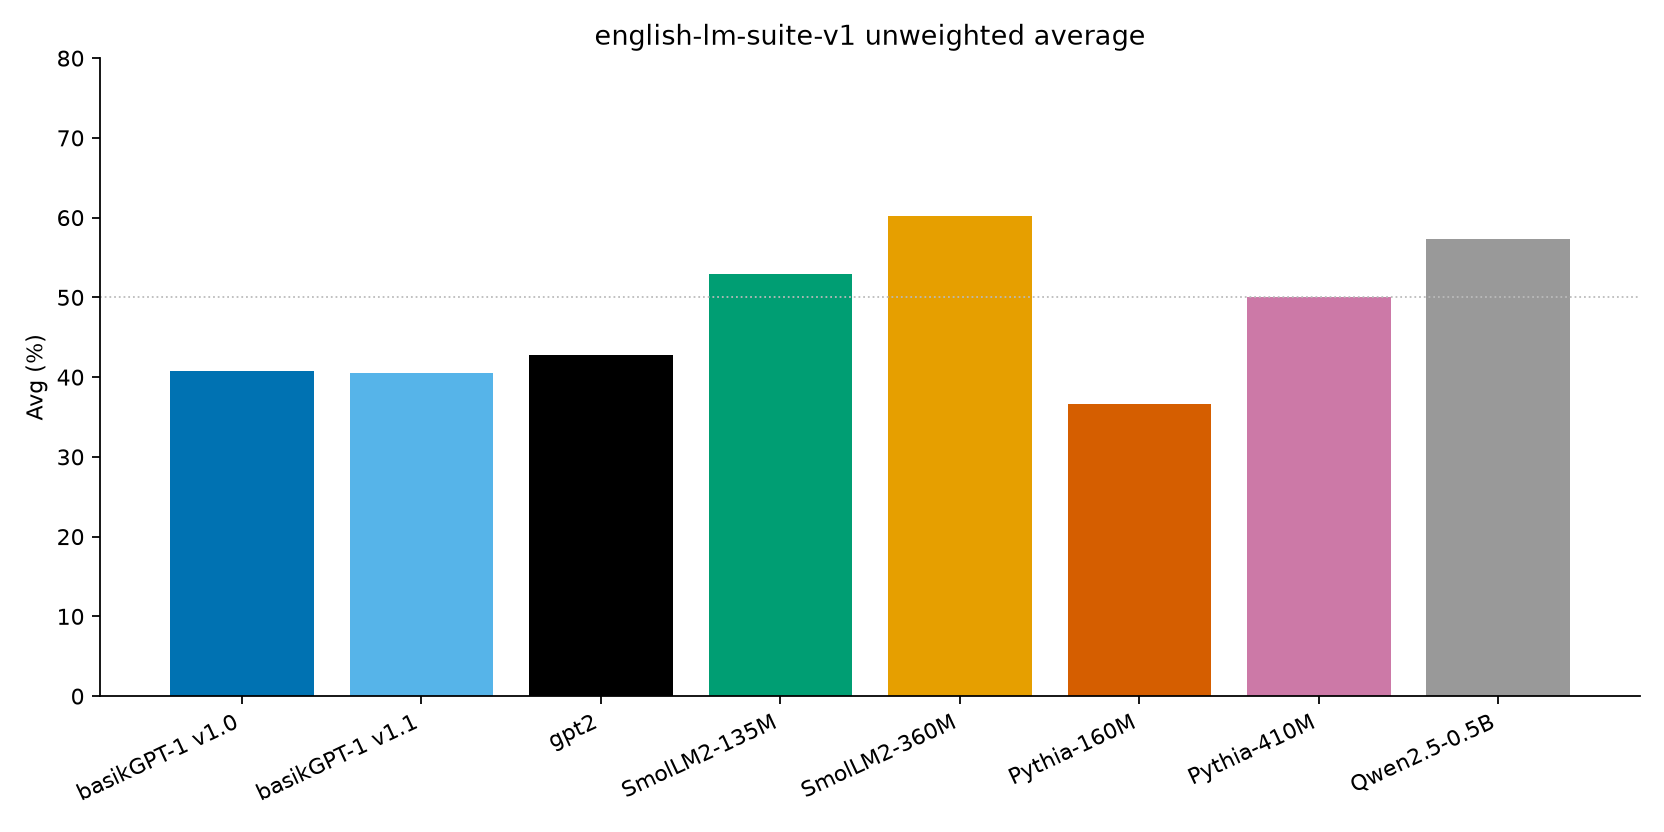
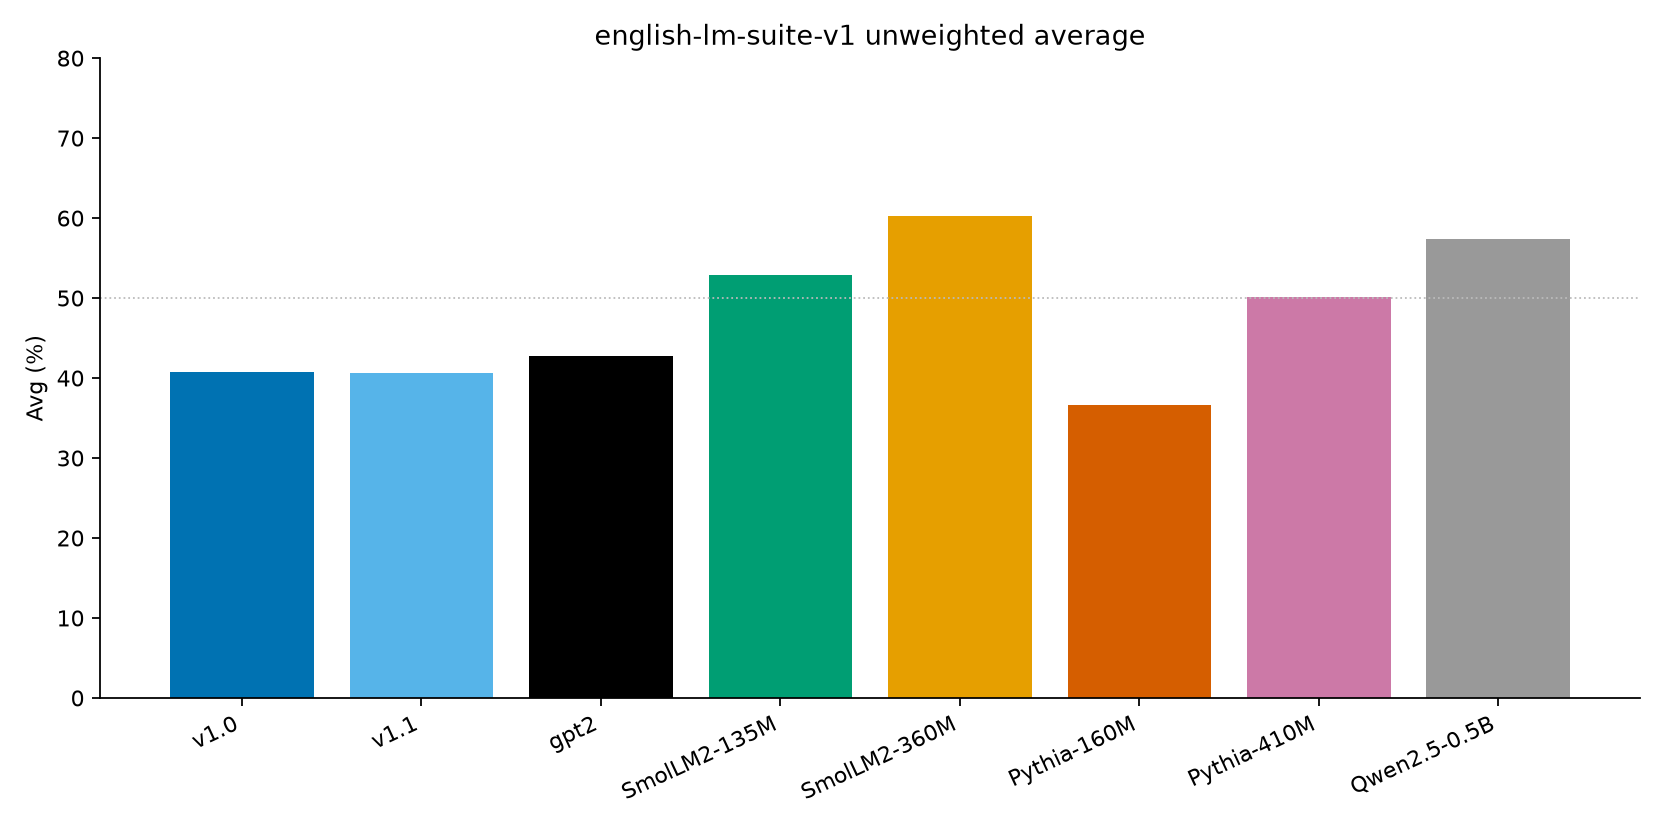
docs: drop disclaimer copy and label suite rows v1.0/v1.1
Lead with the base-model fact and the version names readers already use, instead of 'not a chatbot' hedges or 2.5B/5B table ids.

diff --git a/scripts/plot_lm_suite_compare.py b/scripts/plot_lm_suite_compare.py
@@ -25,8 +25,8 @@ MODEL_ORDER = (
 )
 
 DISPLAY_NAMES = {
-    "basikgpt-2p5b": "basikGPT-1 v1.0",
-    "basikgpt-5b": "basikGPT-1 v1.1",
+    "basikgpt-2p5b": "v1.0",
+    "basikgpt-5b": "v1.1",
     "gpt2": "gpt2",
     "SmolLM2-135M": "SmolLM2-135M",
     "SmolLM2-360M": "SmolLM2-360M",
@@ -166,8 +166,8 @@ def plot_hellaswag_vs_size(models: dict[str, dict], output_path: Path) -> None:
     colors = [row[3] for row in rows]
     ax.scatter(xs, ys, c=colors, s=48, zorder=3)
     for x, y, label, _color in rows:
-        dy = 1.4 if "v1.1" in label else 1.2
-        if label == "basikGPT-1 v1.0":
+        dy = 1.4 if label == "v1.1" else 1.2
+        if label == "v1.0":
             dy = -2.2
         ax.annotate(label, (x, y), textcoords="offset points", xytext=(6, dy), fontsize=8)
 

diff --git a/tests/evaluation/test_suite_tasks.py b/tests/evaluation/test_suite_tasks.py
@@ -85,8 +85,10 @@ def test_write_report_contains_protocol_and_scores(tmp_path: Path) -> None:
     assert "Qwen/Qwen2.5-0.5B" in text
     assert "apple/OpenELM" not in text
     assert "OpenELM" in text  # listed under Not included
-    assert "basikgpt-2p5b" in text
     assert "basikgpt-5b" in text
+    assert "| v1.0 |" in text
+    assert "- v1.0 —" in text
+    assert "- v1.1 —" in text
     assert "29.33%" in text
     assert "| Avg |" in text
     assert "45.07%" in text

diff --git a/docs/whitepaper.md b/docs/whitepaper.md
@@ -47,7 +47,7 @@ basikGPT-1 is a **124,439,808**-parameter GPT-2 Small decoder-only Transformer t
 
 Weights are on Hugging Face Hub as `GPT2LMHeadModel` exports: [`project-iconik/basikGPT-1-v1.0`](https://huggingface.co/project-iconik/basikGPT-1-v1.0) and [`project-iconik/basikGPT-1-v1.1`](https://huggingface.co/project-iconik/basikGPT-1-v1.1).
 
-The model is a pretrained **base**, not an instruction-tuned chatbot. The comparison table is a shared-protocol baseline, not a compute-matched claim that GPT-2 Small was beaten.
+The model is a pretrained **base**. The comparison table is a shared-protocol baseline.
 
 ---
 
@@ -61,19 +61,19 @@ basikGPT-1 was trained from scratch with three constraints:
 - **Chinchilla-near unique data for the first stage.** Hoffmann et al. suggest on the order of 20 tokens per parameter. v1.0 used 2.50B tokens for 124.4M unique parameters, seen once over FineWeb-Edu (`sample-10BT`).
 - **Single 24–32 GB GPU.** Sequence length 1024, micro-batch 8, gradient accumulation 8, BF16, and SDPA keep measured allocation near 9.5 GiB.
 
-The second stage is a documented continuation, not a second from-scratch run. An earlier mix sketch that included SmolLM `python-edu` was **not** executed; v1.1 used FineWeb + OpenWebMath only.
+The second stage is a documented continuation. An earlier mix sketch that included SmolLM `python-edu` was **not** executed; v1.1 used FineWeb + OpenWebMath only.
 
 ---
 
 ## 3. Related work
 
-The backbone follows GPT-2 [Radford et al., 2019]: Pre-Norm residual blocks, learned absolute positional embeddings, causal multi-head self-attention, and a tied embedding / LM head. The training stack is modernized (AdamW, cosine decay, BF16, PyTorch SDPA) rather than a TensorFlow 1.x / WebText replica. Fidelity tiers are spelled out in [`docs/pretraining_recipe.md`](pretraining_recipe.md).
+The backbone follows GPT-2 [Radford et al., 2019]: Pre-Norm residual blocks, learned absolute positional embeddings, causal multi-head self-attention, and a tied embedding / LM head. The training stack is modernized (AdamW, cosine decay, BF16, PyTorch SDPA). Fidelity tiers are spelled out in [`docs/pretraining_recipe.md`](pretraining_recipe.md).
 
 The first-stage token budget follows the Chinchilla compute-optimal ratio of roughly 20 tokens per parameter [Hoffmann et al., 2022]. The executed v1.0 ratio is 20.09 tokens per parameter for one pass over 2.5B FineWeb-Edu tokens.
 
 Pretraining data is FineWeb-Edu [Penedo et al. / HuggingFaceFW] for v1.0, then FineWeb and OpenWebMath [Paster et al.] for the continuation. Details and licenses are in [§6](#6-data) and [§11](#11-intended-use-limitations-and-licenses).
 
-On the evaluation side, official GPT-2 Small is the same-architecture reference. Pythia [Biderman et al., 2023], SmolLM2, and Qwen2.5-0.5B are included under one in-repo protocol (`english-lm-suite-v1`) so size and data language can be compared without mixing published paper numbers. Token counts and architectures are **not** matched. This is a baseline under a shared scoring rule, not a fair compute bake-off.
+On the evaluation side, official GPT-2 Small is the same-architecture reference. Pythia [Biderman et al., 2023], SmolLM2, and Qwen2.5-0.5B are included under one in-repo protocol (`english-lm-suite-v1`) so size and data language can be compared without mixing published paper numbers. Token counts and architectures are **not** matched. This is a baseline under a shared scoring rule.
 
 ---
 
@@ -140,7 +140,7 @@ flowchart TB
   add2 --> xout
 ```
 
-Attention shapes. Scale `1/sqrt(64)`. Causal multi-head, not GQA.
+Attention shapes. Scale `1/sqrt(64)`. Causal multi-head.
 
 ```mermaid
 flowchart LR
@@ -158,7 +158,7 @@ Tensor symbols `B`, `T`, `C`, `H`, `D`, `V` are defined in [`docs/tensor_convent
 
 ## 5. Tokenizer
 
-GPT-2 byte-level BPE via `tiktoken.get_encoding("gpt2")`. Vocabulary size 50,257. End-of-text id **50,256**. No custom tokenizer.
+GPT-2 byte-level BPE via `tiktoken.get_encoding("gpt2")`. Vocabulary size 50,257. End-of-text id **50,256**.
 
 Training ingest uses `encode_ordinary()` on document text (so a literal `<|endoftext|>` in the page is ordinary bytes) and appends one EOT as the document boundary. Manifests record this as `special_token_policy: encode_ordinary + appended EOT`. The training-machine tiktoken version was `0.14.0`.
 
@@ -214,7 +214,7 @@ flowchart LR
   v10 --> v11 --> life
 ```
 
-The 0.25B math slice exists so equations are not unseen. It is not enough data to claim a math model, and GSM8K is not in the evaluation protocol.
+The 0.25B math slice exists so equations are not unseen. GSM8K is not in the evaluation protocol.
 
 ---
 
@@ -271,7 +271,7 @@ Resumed from `runs/main_2p5b/step-00038147.pt` (weights and optimizer). `schedul
 | Other optimizer / batch fields | same as v1.0 |
 | `seed` | 1337 |
 
-**One FineWeb-Edu epoch, then a different mix.** The continuation leaves the Edu distribution on purpose. FineWeb-Edu validation CE rising during v1.1 is expected, not a silent regression.
+**One FineWeb-Edu epoch, then a different mix.** The continuation leaves the Edu distribution on purpose. FineWeb-Edu validation CE rising during v1.1 is expected.
 
 ---
 
@@ -288,7 +288,7 @@ Resumed from `runs/main_2p5b/step-00038147.pt` (weights and optimizer). `schedul
 | Training-only tok/s | 85,076 | ~84,700 |
 | Peak CUDA allocated (MiB) | 9,523.61 | 9,528.69 |
 
-The v1.1 `summary.json` field `training_only_tokens_per_sec` is **169,416**. That divides **lifetime** 5.0B tokens by this-stage train time and is not a throughput measurement. Stage tokens 2,500,001,792 / `train_elapsed_seconds` 29,513.24 s ≈ **84,708** tok/s, in line with v1.0.
+The v1.1 `summary.json` field `training_only_tokens_per_sec` is **169,416**. That divides **lifetime** 5.0B tokens by this-stage train time. Stage tokens 2,500,001,792 / `train_elapsed_seconds` 29,513.24 s ≈ **84,708** tok/s, in line with v1.0.
 
 Peak allocation stayed near 9.5 GiB, so a 24 GB card has headroom at this batch shape. Hub ingest and shard packing added wall-clock before step 1 and are not in the GPU-hour totals.
 
@@ -362,8 +362,8 @@ Checkpoints: v1.0 `runs/main_2p5b/step-00038147.pt`; v1.1 `runs/cont_5b_mix/step
 
 | Model | Params | Corpus | HS acc_norm | LAMBADA | PIQA | WG | ARC-E | Avg |
 | --- | ---: | --- | ---: | ---: | ---: | ---: | ---: | ---: |
-| **basikGPT-1 v1.0** | 124M | FineWeb-Edu 2.5B | **29.40%** | **19.58%** | **61.37%** | **50.51%** | **43.01%** | **40.77%** |
-| **basikGPT-1 v1.1** | 124M | Edu 2.5B + FineWeb 2.25B + OpenWebMath 0.25B | **28.75%** | **23.05%** | **61.75%** | **50.83%** | **38.51%** | **40.58%** |
+| **v1.0** | 124M | FineWeb-Edu 2.5B | **29.40%** | **19.58%** | **61.37%** | **50.51%** | **43.01%** | **40.77%** |
+| **v1.1** | 124M | Edu 2.5B + FineWeb 2.25B + OpenWebMath 0.25B | **28.75%** | **23.05%** | **61.75%** | **50.83%** | **38.51%** | **40.58%** |
 | `openai-community/gpt2` | 124M | WebText | 30.37% | 30.93% | 62.57% | 51.62% | 38.13% | 42.72% |
 | SmolLM2-135M | 135M | SmolLM2 mix | 42.67% | 42.97% | 67.57% | 51.93% | 59.43% | 52.91% |
 | SmolLM2-360M | 362M | SmolLM2 mix | 55.23% | 53.25% | 71.71% | 54.14% | 66.75% | 60.22% |
@@ -385,9 +385,7 @@ WG is acc_raw; other columns are the suite primary metric. Avg is the unweighted
 - **vs official GPT-2 Small.** Same decoder, same tiktoken, same completion NLL. v1.0 is the only checkpoint that beats gpt2 on a primary metric: ARC-Easy **+4.88 pp**. LAMBADA stays well below gpt2 (v1.0 −11.35 pp, v1.1 −7.88 pp). HellaSwag is slightly below (v1.0 −0.97 pp, v1.1 −1.62 pp).
 - **HellaSwag ~29%.** Above chance 25%, in the same band as gpt2 and Pythia-160M, and far below SmolLM2-135M at 42.67%. Nearby parameter counts do not imply nearby data budgets.
 - **WinoGrande.** All eight models sit in 49.5–55.6%. At n=1,267 the standard error of a 50% rate is about 1.4 pp, so 50.51% and 50.83% are not distinguishable from chance.
-- **Size ladder.** SmolLM2-360M and Qwen2.5-0.5B sit clearly above the 124M GPT-2 class. That is the expected mix-and-scale gap, not a surprise.
-
-**What these numbers do not claim.** The hyperparameter search is not finished. The table is not a token-matched or compute-matched bake-off. “We beat GPT-2” is false as a headline. 2.5B and 5B are **training tokens**, not parameters. 0.25B OpenWebMath does not imply GSM8K (not in the protocol). KoBEST, MMLU, HumanEval, and WikiText PPL are not in the suite.
+- **Size ladder.** SmolLM2-360M and Qwen2.5-0.5B sit clearly above the 124M GPT-2 class. That is the expected mix-and-scale gap.
 
 Published scores: [`benchmarks/REPORT.md`](../benchmarks/REPORT.md) and [`benchmarks/summary.json`](../benchmarks/summary.json). Plots regenerate with `python scripts/plot_lm_suite_compare.py`.
 
@@ -397,7 +395,7 @@ Published scores: [`benchmarks/REPORT.md`](../benchmarks/REPORT.md) and [`benchm
 
 ### Intended use
 
-basikGPT-1 is a pretrained English **base** checkpoint for research, education, further pretraining, and fine-tuning. It is not a chatbot and was not instruction-tuned. It is not safe for open-ended production chat.
+basikGPT-1 is a pretrained English **base** model for research, education, further pretraining, and fine-tuning.
 
 Use **v1.0** for the FineWeb-Edu checkpoint (stronger ARC-Easy). Use **v1.1** for the 5B continuation (higher LAMBADA, lower ARC-Easy). The snippet below loads v1.1.
 
@@ -481,7 +479,7 @@ python scripts/evaluate_lm_suite.py --protocol-all --device cuda
 python scripts/plot_lm_suite_compare.py
 ```
 
-Large shards under `data/` and `.pt` checkpoints under `runs/` are gitignored. Production 2.5B ingest needs disk space and a Hub stream; it is not a laptop default.
+Large shards under `data/` and `.pt` checkpoints under `runs/` are gitignored. Production 2.5B ingest needs disk space and a Hub stream.
 
 Recorded git SHAs (both dirty):
 
@@ -498,7 +496,7 @@ A dirty tree means the SHA is provenance, not a bitwise recipe lock.
 
 basikGPT-1 is a complete GPT-2 Small pretraining run: a verified 124,439,808-parameter decoder, GPT-2 BPE, a documented FineWeb-Edu 2.5B stage (20.09 tokens/parameter, 8.18 GPU hours, full-val PPL 25.92), a documented FineWeb+OpenWebMath continuation to 5B, and an in-repo zero-shot English suite.
 
-v1.0 sits next to official gpt2 on HellaSwag and above it on ARC-Easy; LAMBADA remains the largest gap. v1.1 closes part of that LAMBADA gap and gives back the ARC-Easy lead. Same-size public decoders in this protocol are close; 135M–0.5B models trained on larger modern mixes sit higher. That is the expected size-and-data ladder, not a surprise.
+v1.0 sits next to official gpt2 on HellaSwag and above it on ARC-Easy; LAMBADA remains the largest gap. v1.1 closes part of that LAMBADA gap and gives back the ARC-Easy lead. Same-size public decoders in this protocol are close; 135M–0.5B models trained on larger modern mixes sit higher. That is the expected size-and-data ladder.
 
 ---
 

diff --git a/README.ja.md b/README.ja.md
@@ -2,7 +2,7 @@
 
 [English](README.md) · **日本語** · [한국어](README.ko.md)
 
-basikGPT は **事前学習済み GPT-2 Small decoder-only Transformer**（124,439,808 ユニークパラメータ）と、それを学習した PyTorch コードである。**base** チェックポイントであり、instruction-tuned なチャットボットではない。
+basikGPT は **事前学習済み GPT-2 Small decoder-only Transformer**（124,439,808 ユニークパラメータ）と、それを学習した PyTorch コードである。**base** モデルである。
 
 - 重み: [`project-iconik/basikGPT-1-v1.0`](https://huggingface.co/project-iconik/basikGPT-1-v1.0)（2.5B トークン）、[`project-iconik/basikGPT-1-v1.1`](https://huggingface.co/project-iconik/basikGPT-1-v1.1)（5B トークン）
 - ホワイトペーパー: [`docs/whitepaper.md`](docs/whitepaper.md)（[JA](docs/whitepaper.ja.md)、[KO](docs/whitepaper.ko.md)）
@@ -48,8 +48,8 @@ python scripts/generate.py --checkpoint runs/main_2p5b/step-00038147.pt --prompt
 
 | Model | size | HS | LAMBADA | PIQA | WG | ARC-E | Avg |
 | --- | ---: | ---: | ---: | ---: | ---: | ---: | ---: |
-| **basikGPT-1 v1.0** | 124M | 29.40 | 19.58 | 61.37 | 50.51 | **43.01** | 40.77 |
-| **basikGPT-1 v1.1** | 124M | 28.75 | 23.05 | 61.75 | 50.83 | 38.51 | 40.58 |
+| **v1.0** | 124M | 29.40 | 19.58 | 61.37 | 50.51 | **43.01** | 40.77 |
+| **v1.1** | 124M | 28.75 | 23.05 | 61.75 | 50.83 | 38.51 | 40.58 |
 | openai-community/gpt2 | 124M | 30.37 | 30.93 | 62.57 | 51.62 | 38.13 | 42.72 |
 | HuggingFaceTB/SmolLM2-135M | 135M | 42.67 | 42.97 | 67.57 | 51.93 | 59.43 | 52.91 |
 | EleutherAI/pythia-160m | 162M | 29.26 | 11.57 | 58.32 | 49.49 | 34.22 | 36.57 |
@@ -110,7 +110,7 @@ flowchart TB
 
 ## Tokenizer
 
-GPT-2 byte-level BPE（`tiktoken.get_encoding("gpt2")`）。語彙 50,257。End-of-text id 50,256。独自トークナイザはない。学習取り込みは `encode_ordinary()` のあと文書ごとに EOT を 1 個付与する。Hub 出力は公式 GPT-2 トークナイザファイルを同梱する。詳細: [ホワイトペーパー §5](docs/whitepaper.ja.md#5-トークナイザ)。
+GPT-2 byte-level BPE（`tiktoken.get_encoding("gpt2")`）。語彙 50,257。End-of-text id 50,256。学習取り込みは `encode_ordinary()` のあと文書ごとに EOT を 1 個付与する。Hub 出力は公式 GPT-2 トークナイザファイルを同梱する。詳細: [ホワイトペーパー §5](docs/whitepaper.ja.md#5-トークナイザ)。
 
 ## Data
 
@@ -131,7 +131,7 @@ flowchart LR
 
 ### A. 公開重みを使う（既定）
 
-[Quick start](#quick-start) を見よ。パック済みコーパスは不要。推論に 24 GB GPU は要らない。
+[Quick start](#quick-start) を見よ。
 
 ### B. FineWeb-Edu 2.5B を再学習する
 
@@ -155,13 +155,13 @@ python scripts/train.py \
   --output-dir runs/main_2p5b
 ```
 
-設定 [`configs/gpt2_small_fineweb_edu_single_gpu.json`](configs/gpt2_small_fineweb_edu_single_gpu.json) は凍結レシピを記録する（provisional、最適主張ではない）。本番のピーク CUDA allocated は **9,523.61 MiB**。
+設定 [`configs/gpt2_small_fineweb_edu_single_gpu.json`](configs/gpt2_small_fineweb_edu_single_gpu.json) は凍結レシピを記録する（provisional）。本番のピーク CUDA allocated は **9,523.61 MiB**。
 
 各 `train.py` 起動は `runs/<name>/` に書く。公開された手法と指標は [ホワイトペーパー](docs/whitepaper.ja.md) にある。ステップログ（`metrics.jsonl`）とシャードマニフェスト（`dataset.json`）は gitignore される。
 
 ### C. Tiny CPU スモーク（実験のみ）
 
-本番学習セットではない。先にスモーク用シャードが必要。
+先にスモーク用シャードが必要。
 
 ```bash
 python scripts/prepare_fineweb_edu.py --output data/fineweb-edu-smoke

diff --git a/README.ko.md b/README.ko.md
@@ -2,7 +2,7 @@
 
 [English](README.md) · [日本語](README.ja.md) · **한국어**
 
-basikGPT는 **사전학습된 GPT-2 Small decoder-only Transformer**(124,439,808 고유 파라미터)와 그것을 학습한 PyTorch 코드다. **base** 체크포인트이며 instruction-tuned 챗봇이 아니다.
+basikGPT는 **사전학습된 GPT-2 Small decoder-only Transformer**(124,439,808 고유 파라미터)와 그것을 학습한 PyTorch 코드다. **base** 모델이다.
 
 - 가중치: [`project-iconik/basikGPT-1-v1.0`](https://huggingface.co/project-iconik/basikGPT-1-v1.0) (2.5B 토큰), [`project-iconik/basikGPT-1-v1.1`](https://huggingface.co/project-iconik/basikGPT-1-v1.1) (5B 토큰)
 - 백서: [`docs/whitepaper.md`](docs/whitepaper.md) ([JA](docs/whitepaper.ja.md), [KO](docs/whitepaper.ko.md))
@@ -48,8 +48,8 @@ python scripts/generate.py --checkpoint runs/main_2p5b/step-00038147.pt --prompt
 
 | Model | size | HS | LAMBADA | PIQA | WG | ARC-E | Avg |
 | --- | ---: | ---: | ---: | ---: | ---: | ---: | ---: |
-| **basikGPT-1 v1.0** | 124M | 29.40 | 19.58 | 61.37 | 50.51 | **43.01** | 40.77 |
-| **basikGPT-1 v1.1** | 124M | 28.75 | 23.05 | 61.75 | 50.83 | 38.51 | 40.58 |
+| **v1.0** | 124M | 29.40 | 19.58 | 61.37 | 50.51 | **43.01** | 40.77 |
+| **v1.1** | 124M | 28.75 | 23.05 | 61.75 | 50.83 | 38.51 | 40.58 |
 | openai-community/gpt2 | 124M | 30.37 | 30.93 | 62.57 | 51.62 | 38.13 | 42.72 |
 | HuggingFaceTB/SmolLM2-135M | 135M | 42.67 | 42.97 | 67.57 | 51.93 | 59.43 | 52.91 |
 | EleutherAI/pythia-160m | 162M | 29.26 | 11.57 | 58.32 | 49.49 | 34.22 | 36.57 |
@@ -110,7 +110,7 @@ flowchart TB
 
 ## Tokenizer
 
-GPT-2 byte-level BPE(`tiktoken.get_encoding("gpt2")`). 어휘 50,257. End-of-text id 50,256. 커스텀 토크나이저는 없다. 학습 수집은 `encode_ordinary()` 후 문서마다 EOT를 하나 붙인다. Hub 내보내기는 공식 GPT-2 토크나이저 파일을 포함한다. 상세: [백서 §5](docs/whitepaper.ko.md#5-토크나이저).
+GPT-2 byte-level BPE(`tiktoken.get_encoding("gpt2")`). 어휘 50,257. End-of-text id 50,256. 학습 수집은 `encode_ordinary()` 후 문서마다 EOT를 하나 붙인다. Hub 내보내기는 공식 GPT-2 토크나이저 파일을 포함한다. 상세: [백서 §5](docs/whitepaper.ko.md#5-토크나이저).
 
 ## Data
 
@@ -131,7 +131,7 @@ flowchart LR
 
 ### A. 공개 가중치 사용 (기본)
 
-[Quick start](#quick-start)를 본다. 팩된 코퍼스는 필요 없다. 추론에 24 GB GPU는 필요 없다.
+[Quick start](#quick-start)를 본다.
 
 ### B. FineWeb-Edu 2.5B 다시 학습
 
@@ -155,13 +155,13 @@ python scripts/train.py \
   --output-dir runs/main_2p5b
 ```
 
-설정 [`configs/gpt2_small_fineweb_edu_single_gpu.json`](configs/gpt2_small_fineweb_edu_single_gpu.json)은 동결 레시피를 기록한다(provisional, 최적 주장 아님). 프로덕션 피크 CUDA allocated는 **9,523.61 MiB**.
+설정 [`configs/gpt2_small_fineweb_edu_single_gpu.json`](configs/gpt2_small_fineweb_edu_single_gpu.json)은 동결 레시피를 기록한다(provisional). 프로덕션 피크 CUDA allocated는 **9,523.61 MiB**.
 
 각 `train.py` 실행은 `runs/<name>/`에 쓴다. 공개된 방법과 지표는 [백서](docs/whitepaper.ko.md)에 있다. 스텝 로그(`metrics.jsonl`)와 샤드 매니페스트(`dataset.json`)는 gitignore된다.
 
 ### C. Tiny CPU 스모크 (실험만)
 
-프로덕션 학습셋이 아니다. 먼저 스모크 샤드 디렉터리가 필요하다.
+먼저 스모크 샤드 디렉터리가 필요하다.
 
 ```bash
 python scripts/prepare_fineweb_edu.py --output data/fineweb-edu-smoke

diff --git a/README.md b/README.md
@@ -2,7 +2,7 @@
 
 **English** · [日本語](README.ja.md) · [한국어](README.ko.md)
 
-basikGPT is a **pretrained GPT-2 Small decoder-only Transformer** (124,439,808 unique parameters) plus the PyTorch code that trained it. It is a **base** checkpoint, not an instruction-tuned chatbot.
+basikGPT is a **pretrained GPT-2 Small decoder-only Transformer** (124,439,808 unique parameters) plus the PyTorch code that trained it. It is a **base** model.
 
 - Weights: [`project-iconik/basikGPT-1-v1.0`](https://huggingface.co/project-iconik/basikGPT-1-v1.0) (2.5B tokens), [`project-iconik/basikGPT-1-v1.1`](https://huggingface.co/project-iconik/basikGPT-1-v1.1) (5B tokens)
 - Whitepaper: [`docs/whitepaper.md`](docs/whitepaper.md) ([JA](docs/whitepaper.ja.md), [KO](docs/whitepaper.ko.md))
@@ -48,8 +48,8 @@ Zero-shot English LM suite (`english-lm-suite-v1`): same splits, prompts, and sc
 
 | Model | size | HS | LAMBADA | PIQA | WG | ARC-E | Avg |
 | --- | ---: | ---: | ---: | ---: | ---: | ---: | ---: |
-| **basikGPT-1 v1.0** | 124M | 29.40 | 19.58 | 61.37 | 50.51 | **43.01** | 40.77 |
-| **basikGPT-1 v1.1** | 124M | 28.75 | 23.05 | 61.75 | 50.83 | 38.51 | 40.58 |
+| **v1.0** | 124M | 29.40 | 19.58 | 61.37 | 50.51 | **43.01** | 40.77 |
+| **v1.1** | 124M | 28.75 | 23.05 | 61.75 | 50.83 | 38.51 | 40.58 |
 | openai-community/gpt2 | 124M | 30.37 | 30.93 | 62.57 | 51.62 | 38.13 | 42.72 |
 | HuggingFaceTB/SmolLM2-135M | 135M | 42.67 | 42.97 | 67.57 | 51.93 | 59.43 | 52.91 |
 | EleutherAI/pythia-160m | 162M | 29.26 | 11.57 | 58.32 | 49.49 | 34.22 | 36.57 |
@@ -110,7 +110,7 @@ flowchart TB
 
 ## Tokenizer
 
-GPT-2 byte-level BPE via `tiktoken.get_encoding("gpt2")`. Vocabulary 50,257. End-of-text id 50,256. No custom tokenizer. Training ingest uses `encode_ordinary()` and appends one EOT per document. Hub exports ship the official GPT-2 tokenizer files. Details: [whitepaper §5](docs/whitepaper.md#5-tokenizer).
+GPT-2 byte-level BPE via `tiktoken.get_encoding("gpt2")`. Vocabulary 50,257. End-of-text id 50,256. Training ingest uses `encode_ordinary()` and appends one EOT per document. Hub exports ship the official GPT-2 tokenizer files. Details: [whitepaper §5](docs/whitepaper.md#5-tokenizer).
 
 ## Data
 
@@ -131,7 +131,7 @@ Full mix tables and licenses: [whitepaper §6](docs/whitepaper.md#6-data).
 
 ### A. Use the published weights (default)
 
-See [Quick start](#quick-start). No packed corpus required. Inference does not need a 24 GB GPU.
+See [Quick start](#quick-start).
 
 ### B. Retrain the 2.5B FineWeb-Edu run
 
@@ -155,13 +155,13 @@ python scripts/train.py \
   --output-dir runs/main_2p5b
 ```
 
-Config [`configs/gpt2_small_fineweb_edu_single_gpu.json`](configs/gpt2_small_fineweb_edu_single_gpu.json) records the frozen recipe (provisional, not an optimal claim). Measured peak CUDA allocated on the production run was **9,523.61 MiB**.
+Config [`configs/gpt2_small_fineweb_edu_single_gpu.json`](configs/gpt2_small_fineweb_edu_single_gpu.json) records the frozen recipe (provisional). Measured peak CUDA allocated on the production run was **9,523.61 MiB**.
 
 Each `train.py` launch writes under `runs/<name>/`. Published methods and metrics are in the [whitepaper](docs/whitepaper.md). Step logs (`metrics.jsonl`) and shard manifests (`dataset.json`) are gitignored.
 
 ### C. Tiny CPU smoke (experiments only)
 
-Not the production train set. Needs a smoke shard directory first.
+Needs a smoke shard directory first.
 
 ```bash
 python scripts/prepare_fineweb_edu.py --output data/fineweb-edu-smoke
